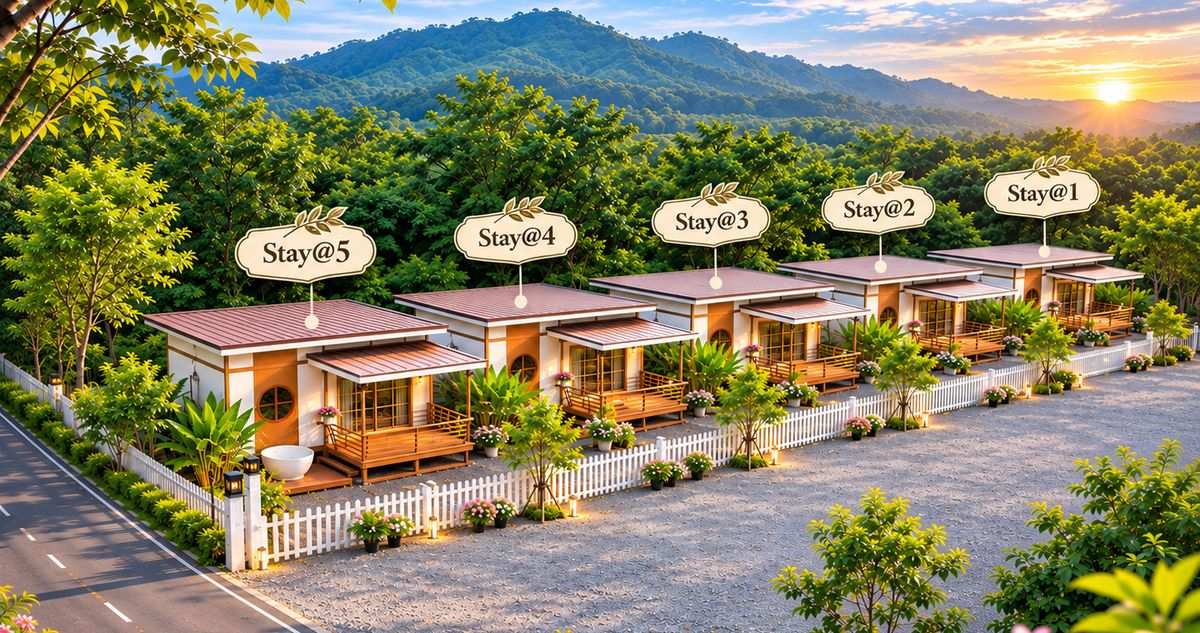
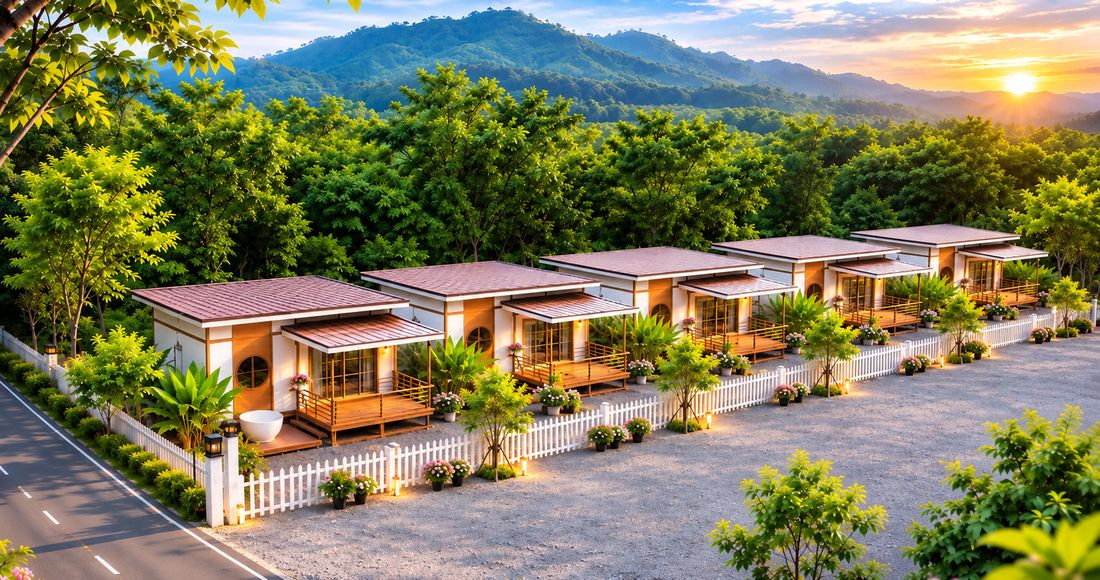
Add files via upload

diff --git a/js/booking.js b/js/booking.js
@@ -67,13 +67,14 @@
     return S.rooms.includes(id) ? "pick" : "free";
   }
   const label = { idle: "", free: "ว่าง", pick: "✓ เลือกแล้ว", full: "เต็ม" };
-  const pinText = { idle: "", free: "ว่าง", pick: '✓<span class="pin__long"> เลือกแล้ว</span>', full: "เต็ม" };
+  // ป้ายบนภาพ: ชื่อห้อง (บนมือถือย่อเหลือ @1) สีบอกสถานะ
+  const pinText = (h, s) => (s === "pick" ? "✓ " : "") + U.esc(h.name).replace(/^([^@]+)@/, '<span class="pin__pre">$1</span>@');
 
   function renderMap() {
     $("#mapPins").innerHTML = C.houses.map((h) => {
       const s = roomState(h.id);
       return `<button type="button" class="pin pin--${s}" data-room="${h.id}" style="left:${h.x}%;top:${h.y}%"
-        aria-label="${U.esc(h.name)} ${label[s] || ""}" ${s === "full" ? 'aria-disabled="true"' : ""}>${s === "idle" ? U.esc(h.name) : pinText[s]}</button>`;
+        aria-label="${U.esc(h.name)} ${label[s] || ""}" ${s === "full" ? 'aria-disabled="true"' : ""}>${pinText(h, s)}</button>`;
     }).join("");
     $("#roomPick").innerHTML = C.houses.map((h) => {
       const s = roomState(h.id);
@@ -209,10 +210,19 @@
       li.classList.toggle("is-active", i + 1 === n);
       li.classList.toggle("is-done", typeof n === "number" && i + 1 < n);
     });
-    if (n === 2) renderSummary();
+    if (n === 2) { renderSummary(); syncTimes(); }
     $(".book").scrollIntoView({ behavior: "smooth" });
   }
   $("#btnBack").onclick = () => goStep(1);
+
+  /* ---------- เวลาเช็กอินก่อนเวลา / เวลารับอาหารเช้า ---------- */
+  $("#earlyTime").innerHTML = C.earlyCheckInTimes.map((t) => `<option>${t}</option>`).join("");
+  $("#bfTime").innerHTML = C.breakfastTimes.map((t) => `<option>${t}</option>`).join("");
+  const syncTimes = () => {
+    $("#earlyField").hidden = !$("#earlyChk").checked;
+    $("#bfField").hidden = !U.rate(S.rate).breakfast;
+  };
+  $("#earlyChk").addEventListener("change", syncTimes);
 
   function renderSummary() {
     if (!S.checkIn || !S.rooms.length) return;
@@ -245,6 +255,9 @@
     if (!f.agree.checked) return (err.textContent = "กรุณายอมรับเงื่อนไขการเข้าพัก");
 
     const requests = $$('input[name="req"]:checked', f).map((c) => c.value);
+    const earlyTime = $("#earlyChk").checked ? f.earlyTime.value : "";
+    const breakfastTime = $("#bfField").hidden ? "" : f.breakfastTime.value;
+    if (earlyTime) requests[requests.indexOf("เช็กอินก่อนเวลา")] = "เช็กอินก่อนเวลา " + earlyTime + " น.";
     if (S.extraBeds) requests.unshift("เตียงเสริม ×" + S.extraBeds);
     const booking = {
       name, phone, email,
@@ -253,6 +266,7 @@
       adults: S.adults, children: S.children, rooms: S.rooms,
       extraBeds: S.extraBeds, babyChair: requests.includes("เก้าอี้เด็ก"), requests,
       rate: S.quote.rate.id, rateName: S.quote.rate.name,
+      earlyCheckIn: earlyTime, breakfastTime,
       total: S.quote.total, status: "pending"
     };
 
@@ -268,7 +282,7 @@
       if (ex.message === "ROOM_TAKEN") {
         goStep(1); S.rooms = [];
         search("มีผู้จองห้องที่เลือกไปก่อนหน้าเพียงไม่กี่วินาที ระบบเลือกห้องใหม่ให้แล้ว");
-      } else err.textContent = "ส่งข้อมูลไม่สำเร็จ กรุณาลองใหม่ หรือติดต่อเราทางโทรศัพท์";
+      } else err.textContent = "ส่งข้อมูลไม่สำเร็จ กรุณาลองใหม่ หรือติดต่อเราทางโทรศัพท์" + (ex.code ? " (" + ex.code + ")" : "");
     } finally { btn.disabled = false; btn.textContent = "ไปขั้นตอนชำระเงิน →"; }
   });
   $("#btnSubmit").textContent = "ไปขั้นตอนชำระเงิน →";

diff --git a/index.html b/index.html
@@ -241,11 +241,15 @@
                 </div>
                 <label class="chip"><input type="checkbox" name="req" value="เก้าอี้เด็ก" /><span>👶 เก้าอี้เด็ก</span></label>
                 <label class="chip"><input type="checkbox" name="req" value="เตียงเด็กอ่อน" /><span>🍼 เตียงเด็กอ่อน</span></label>
-                <label class="chip"><input type="checkbox" name="req" value="เช็กอินล่วงหน้า" /><span>⏰ เช็กอินก่อนเวลา</span></label>
+                <label class="chip"><input type="checkbox" name="req" value="เช็กอินก่อนเวลา" id="earlyChk" /><span>⏰ เช็กอินก่อนเวลา</span></label>
                 <label class="chip"><input type="checkbox" name="req" value="ฉลองวันพิเศษ" /><span>🎂 ฉลองวันพิเศษ</span></label>
                 <label class="chip"><input type="checkbox" name="req" value="ขอบ้านติดกัน" /><span>🏡 ขอบ้านติดกัน</span></label>
               </div>
-              <label class="field"><span>ข้อความถึงเรา</span><textarea name="note" rows="3" placeholder="เช่น แพ้อาหาร, มีสัตว์เลี้ยง, ต้องการรถรับส่ง"></textarea></label>
+              <div class="form__row timeopts">
+                <label class="field" id="earlyField" hidden><span>⏰ เวลาที่ต้องการเช็กอิน</span><select name="earlyTime" id="earlyTime"></select></label>
+                <label class="field" id="bfField" hidden><span>🍳 เวลารับอาหารเช้า</span><select name="breakfastTime" id="bfTime"></select></label>
+              </div>
+              <label class="field"><span>ข้อความถึงเรา</span><textarea name="note" rows="3" placeholder="เช่น แพ้อาหาร,มีโรคประจำตัว หรืออื่นๆ"></textarea></label>
               <label class="check"><input type="checkbox" name="agree" required /> ยอมรับเงื่อนไขการเข้าพักและนโยบายความเป็นส่วนตัว</label>
               <p class="form__error" id="formError"></p>
               <div class="form__actions">

diff --git a/js/admin.js b/js/admin.js
@@ -182,7 +182,7 @@
     $("#upcoming").innerHTML = up.length ? up.map((b) => {
       const d = U.fromKey(b.checkIn);
       return `<li data-id="${b.id}"><div class="d"><b>${d.getDate()}</b><small>${d.toLocaleDateString("th-TH", { month: "short" })}</small></div>
-        <div class="x"><div><b>${U.esc(b.name)}</b> · ${b.nights} คืน</div><div class="muted small">${b.rooms.map(U.houseName).join(", ")} · ${b.adults + b.children} ท่าน${b.rateName === "รวมอาหารเช้า" ? " · 🍳 อาหารเช้า" : ""}${b.requests.length ? " · " + U.esc(b.requests.join(", ")) : ""}</div></div>${tag(b)}</li>`;
+        <div class="x"><div><b>${U.esc(b.name)}</b> · ${b.nights} คืน</div><div class="muted small">${b.rooms.map(U.houseName).join(", ")} · ${b.adults + b.children} ท่าน${b.rateName === "รวมอาหารเช้า" ? " · 🍳 อาหารเช้า" + (b.breakfastTime ? " " + U.esc(b.breakfastTime) : "") : ""}${b.requests.length ? " · " + U.esc(b.requests.join(", ")) : ""}</div></div>${tag(b)}</li>`;
     }).join("") : `<p class="empty">ไม่มีเช็กอินในสัปดาห์นี้</p>`;
 
     $("#strip").innerHTML = Array.from({ length: 14 }, (_, i) => {
@@ -337,7 +337,8 @@
           <dt>เช็กอิน</dt><dd>${U.thDate(b.checkIn, { weekday: "short", day: "numeric", month: "long", year: "numeric" })} · มาถึงประมาณ ${U.esc(b.arrivalTime || "-")}</dd>
           <dt>เช็กเอาต์</dt><dd>${U.thDate(b.checkOut, { weekday: "short", day: "numeric", month: "long", year: "numeric" })} (${b.nights} คืน)</dd>
           <dt>ห้องพัก</dt><dd><b>${b.rooms.map(U.houseName).join(", ")}</b></dd>
-          <dt>แพ็กเกจ</dt><dd><b>${U.esc(b.rateName || "-")}</b></dd>
+          <dt>แพ็กเกจ</dt><dd><b>${U.esc(b.rateName || "-")}</b>${b.breakfastTime ? ` · 🍳 รับอาหารเช้า ${U.esc(b.breakfastTime)} น.` : ""}</dd>
+          ${b.earlyCheckIn ? `<dt>เช็กอินก่อนเวลา</dt><dd><b>${U.esc(b.earlyCheckIn)} น.</b></dd>` : ""}
           <dt>ผู้เข้าพัก</dt><dd>ผู้ใหญ่ ${b.adults} · เด็ก ${b.children}</dd>
           <dt>คำขอเพิ่มเติม</dt><dd>${U.esc(b.requests.join(", ") || "-")}</dd>
           <dt>ข้อความ</dt><dd>${U.esc(b.note || "-")}</dd>

diff --git a/js/config.js b/js/config.js
@@ -33,11 +33,11 @@ window.SP_CONFIG = {
   /* ---------- 4) ห้องพักและราคา ---------- */
   houses: [
     // x, y = ตำแหน่งป้ายสถานะบนภาพแผนที่ (เปอร์เซ็นต์จากซ้าย / จากบน)
-    { id: 1, name: "Stay@1", x: 87.0, y: 39.0 },
-    { id: 2, name: "Stay@2", x: 73.3, y: 41.5 },
-    { id: 3, name: "Stay@3", x: 59.5, y: 44.2 },
-    { id: 4, name: "Stay@4", x: 43.4, y: 47.0 },
-    { id: 5, name: "Stay@5", x: 26.0, y: 50.5 }
+    { id: 1, name: "Stay@1", x: 85.4, y: 38.4 },
+    { id: 2, name: "Stay@2", x: 73.0, y: 40.4 },
+    { id: 3, name: "Stay@3", x: 59.1, y: 42.6 },
+    { id: 4, name: "Stay@4", x: 43.4, y: 45.0 },
+    { id: 5, name: "Stay@5", x: 24.3, y: 47.4 }
   ],
   roomMapImage: "images/room-map.jpg",
 
@@ -69,9 +69,11 @@ window.SP_CONFIG = {
      weekendPrice = ราคาคืนศุกร์–เสาร์ (ใส่ 0 = ราคาเดียวกันทุกคืน) */
   rates: [
     { id: "room",      name: "ไม่รวมอาหารเช้า", price: 1450, regular: 0,    weekendPrice: 0 },
-    { id: "breakfast", name: "รวมอาหารเช้า",    price: 1850, regular: 2500, weekendPrice: 0 }
+    { id: "breakfast", name: "รวมอาหารเช้า",    price: 1850, regular: 2500, weekendPrice: 0, breakfast: true }
   ],
   defaultRate: "breakfast",  // แพ็กเกจที่เลือกไว้ให้ก่อน
+  breakfastTimes: ["07:00", "07:30", "08:00", "08:30", "09:00", "09:30", "10:00"],  // เวลารับอาหารเช้าที่ให้เลือก
+  earlyCheckInTimes: ["09:00", "10:00", "11:00", "12:00", "13:00"],               // เวลาเช็กอินก่อนเวลาที่ให้เลือก
   extraBedPrice: 300,        // บาท/คืน/เตียง
   maxNights: 14,
   checkInTime: "14:00",

diff --git a/css/style.css b/css/style.css
@@ -480,3 +480,21 @@ details p { margin-top: .6rem; color: var(--muted); font-size: .95rem; }
   .roommap__body .rp { display: flex; flex-direction: column; align-items: center; justify-content: center; text-align: center; padding: .45rem .1rem; }
   .roommap .pin { font-size: .6rem; padding: .1rem .4rem; }
 }
+
+/* แผนที่เล็กลงอีก + ป้ายชื่อห้องบนภาพ */
+.roommap__body { grid-template-columns: minmax(0, 1.25fr) minmax(0, 1fr); }
+.roommap .pin { transform: translate(-50%, -100%); }
+.roommap .pin:hover { transform: translate(-50%, calc(-100% - 2px)) scale(1.05); }
+.pin--idle { border-color: var(--forest); }
+@keyframes pop { 50% { transform: translate(-50%, -100%) scale(1.15); } }
+.timeopts:has(.field:not([hidden])) { margin-top: .2rem; }
+.timeopts .field[hidden] { display: none; }
+@media (max-width: 760px) { .roommap__img { max-width: 420px; justify-self: center; width: 100%; } }
+
+@media (max-width: 760px) {
+  .roommap__body { grid-template-columns: 1fr; }
+  .roommap__body .roompick { grid-template-columns: repeat(5, minmax(0, 1fr)); gap: 5px; }
+  .roommap__body .rp { display: flex; flex-direction: column; align-items: center; justify-content: center; text-align: center; padding: .45rem .1rem; }
+  .roommap .pin { font-size: .62rem; padding: .08rem .38rem; }
+  .pin__pre { display: none; }
+}
